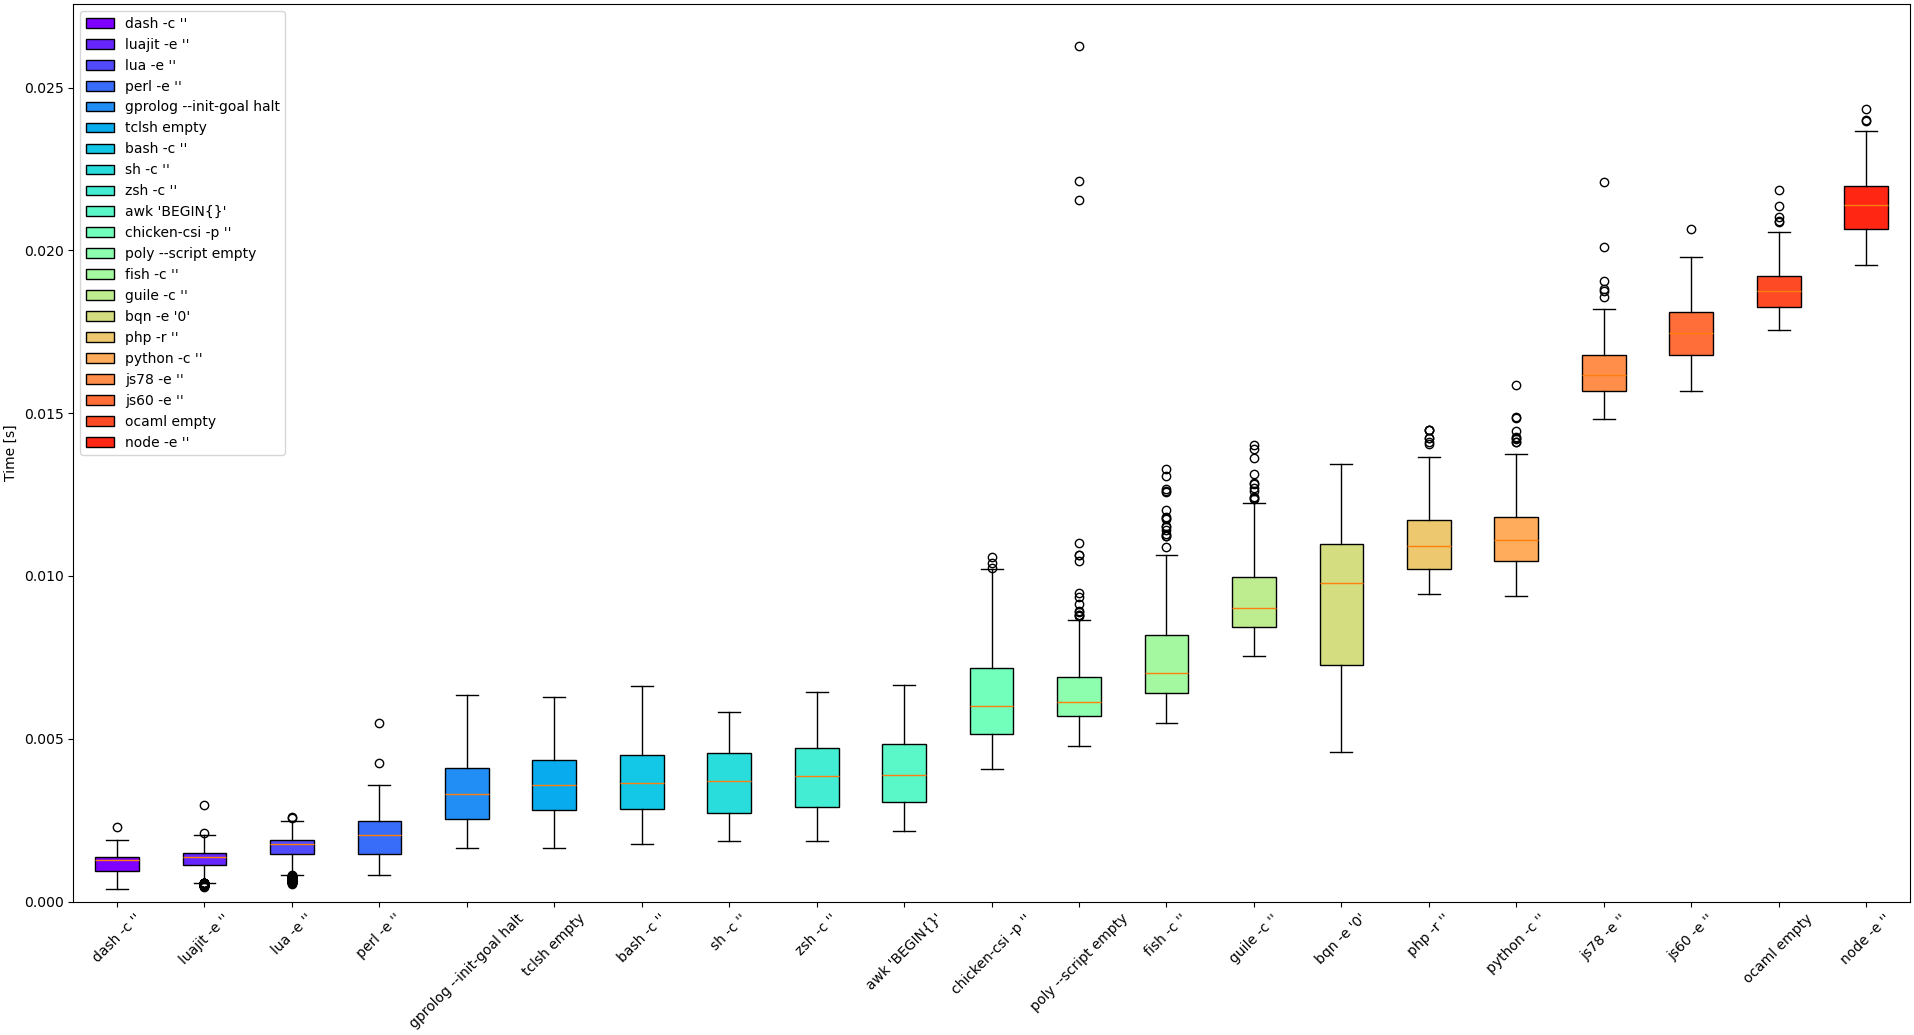
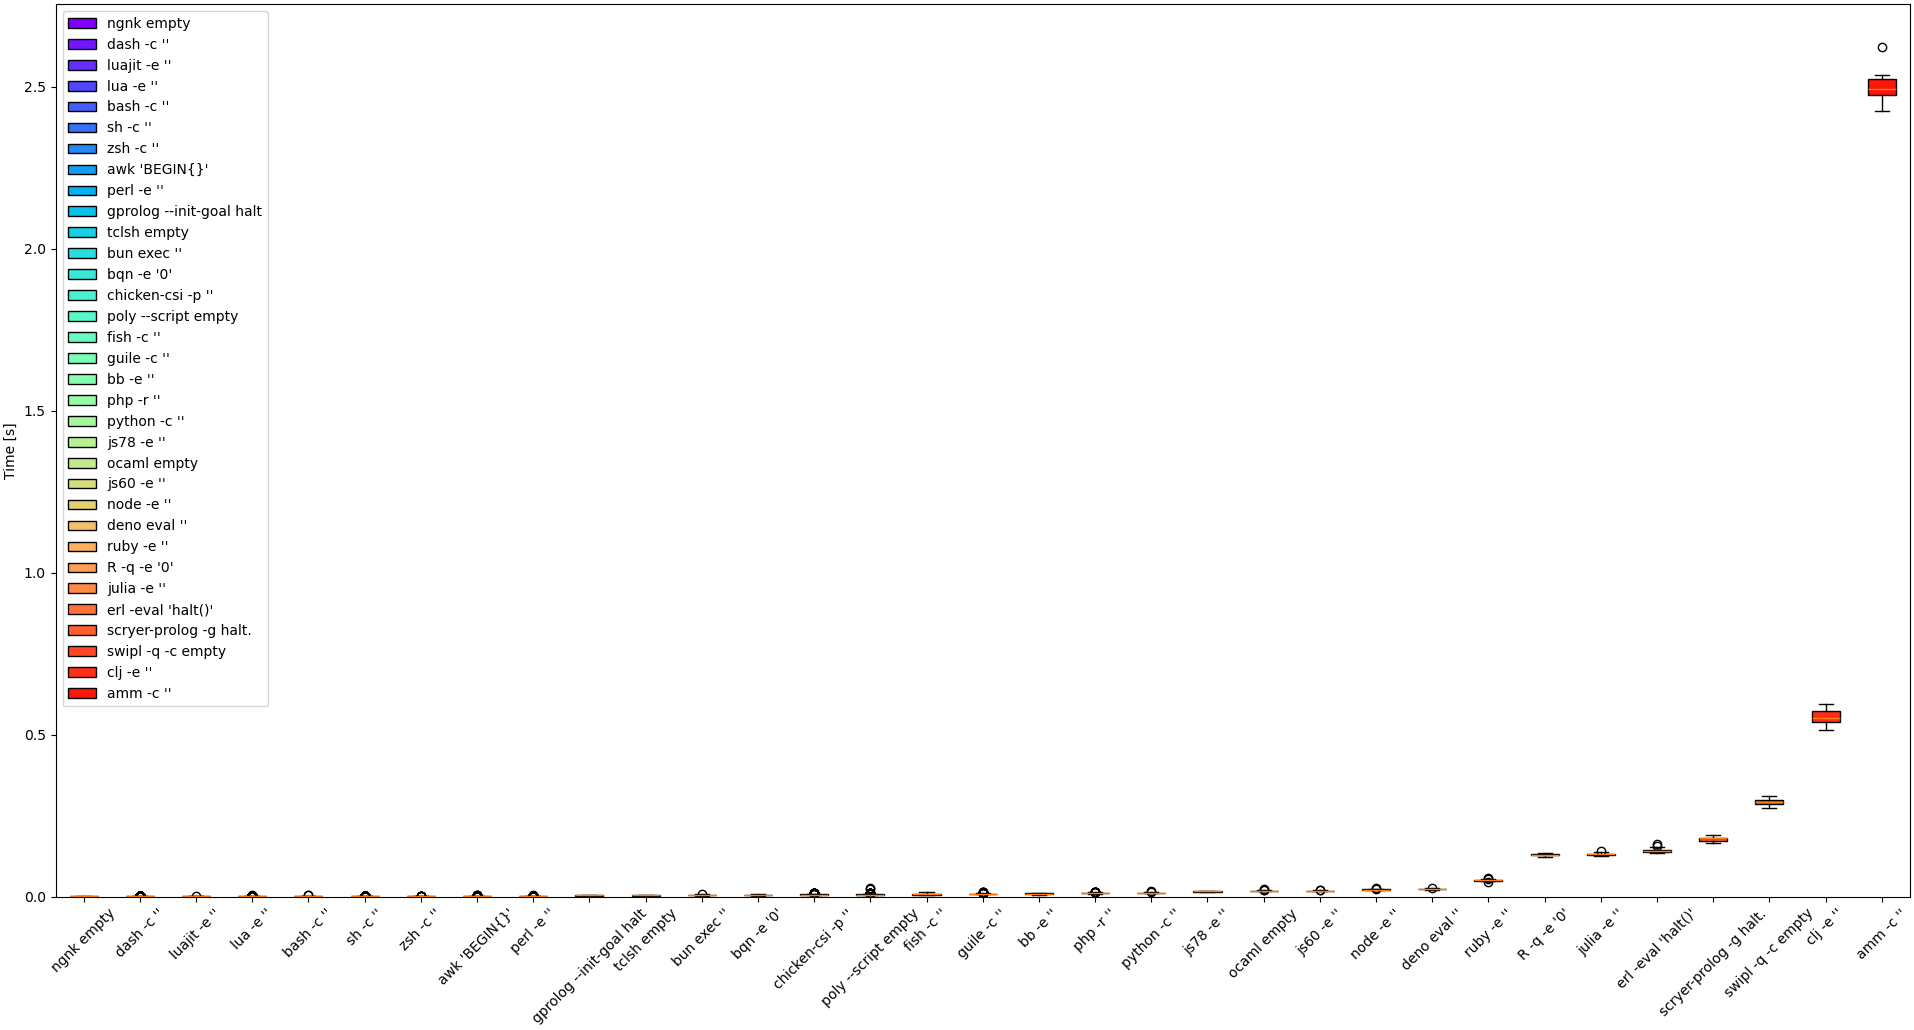
Add ammonite, a Scala REPL

diff --git a/whiskers2.py b/whiskers2.py
@@ -37,8 +37,8 @@ medians = [b["median"] for b in results]
 sorted_indices = sorted(range(len(labels)), key=lambda k: medians[k])
 sorted_labels = [labels[i] for i in sorted_indices]
 sorted_times = [times[i] for i in sorted_indices]
-times = sorted_times[:-7]
-labels = sorted_labels[:-7]
+times = sorted_times[:-8]
+labels = sorted_labels[:-8]
 
 plt.figure(figsize=(10, 6), constrained_layout=True)
 boxplot = plt.boxplot(times, vert=True, patch_artist=True)
